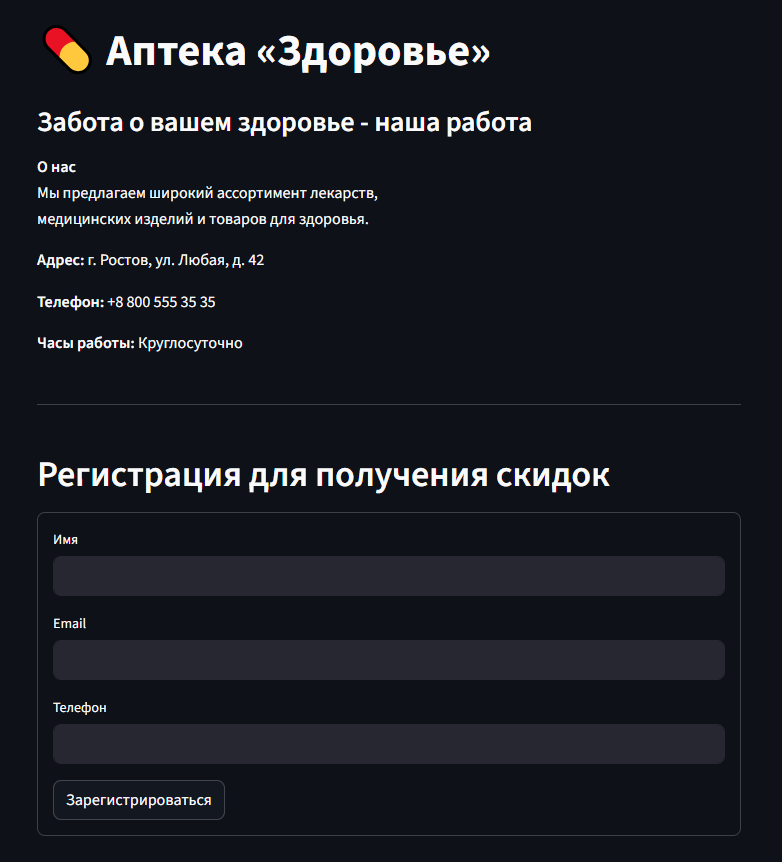
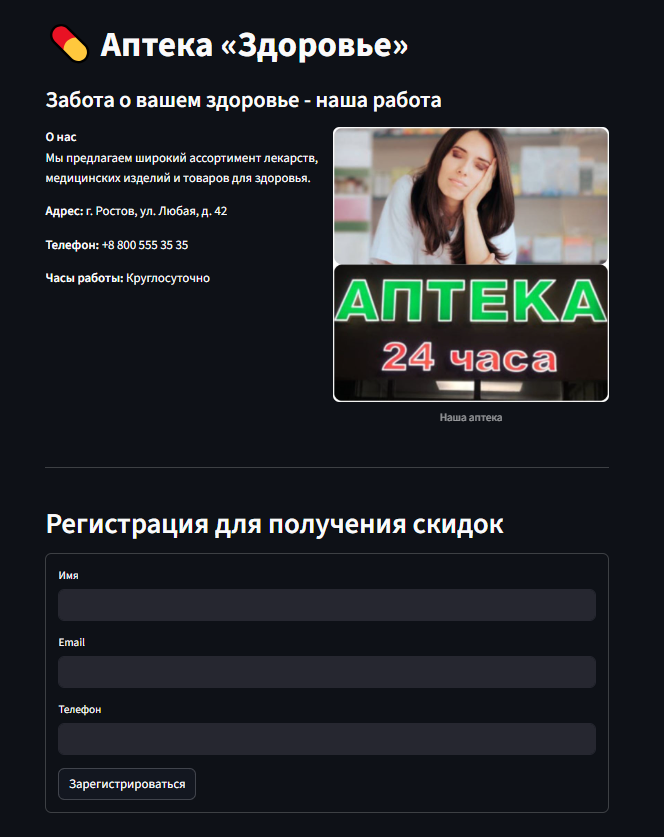
Изображение и HotFix
Добавлено фото аптеки и исправлена ошибка с добавлением пользователей в json файл

diff --git a/app.py b/app.py
@@ -3,6 +3,7 @@ import json
 import os
 
 st.set_page_config(page_title='Аптека «Здоровье»', layout='centered')
+os.makedirs("data", exist_ok=True)
 
 # Основная часть
 st.title('💊 Аптека «Здоровье»')
@@ -16,6 +17,8 @@ with col1:
     \n**Телефон:** +8 800 555 35 35  
     \n**Часы работы:** Круглосуточно
     ''') # Не смотря на то, что это многострочная строка, всё равно без \n разметка билась, вероятно это особенности работы streamlit с markdown
+with col2:
+    st.image("data/img/1.jpg", caption="Наша аптека")
 st.markdown('---')
 st.header('Регистрация для получения скидок')
 with st.form('registration_form'):
@@ -33,12 +36,9 @@ if submitted:
                 try: data = json.load(f)
                 except json.JSONDecodeError: data = []
         else: data = []
-    data.append(
-        {
-            "name": name,
-            "email": email,
-            "phone": phone
-        }
-    )
-    with open('data/users.json', 'w', encoding='utf-8') as f: # Сохранение нового пользователя для рассылки в data/users.json
-        json.dump(data, f, ensure_ascii=False, indent=4)
+        data.append({
+                "name": name,
+                "email": email,
+                "phone": phone})
+        with open('data/users.json', 'w', encoding='utf-8') as f: # Сохранение нового пользователя для рассылки в data/users.json
+            json.dump(data, f, ensure_ascii=False, indent=4)
